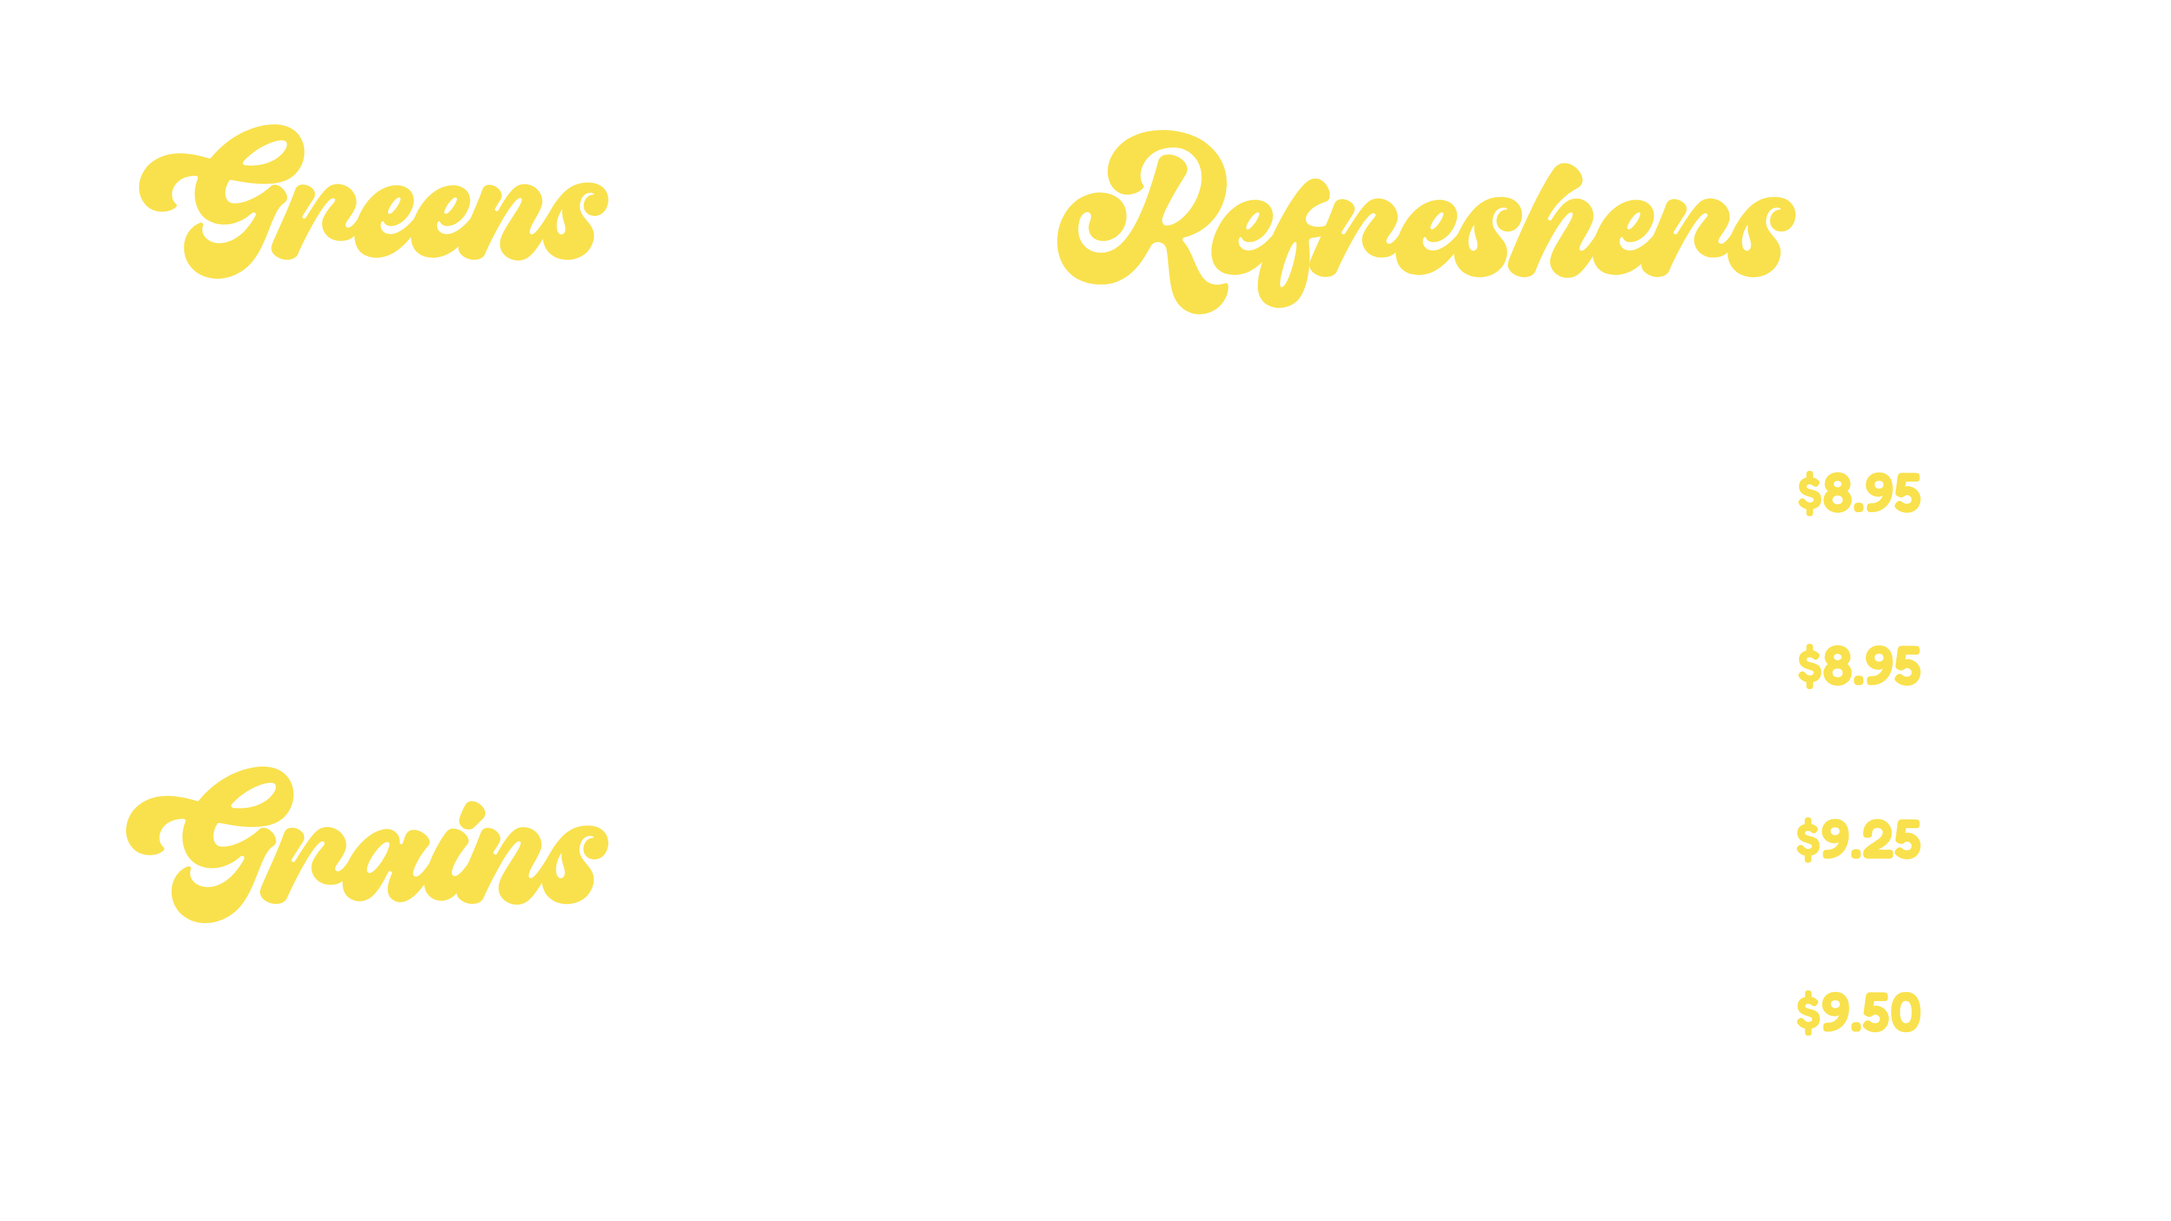
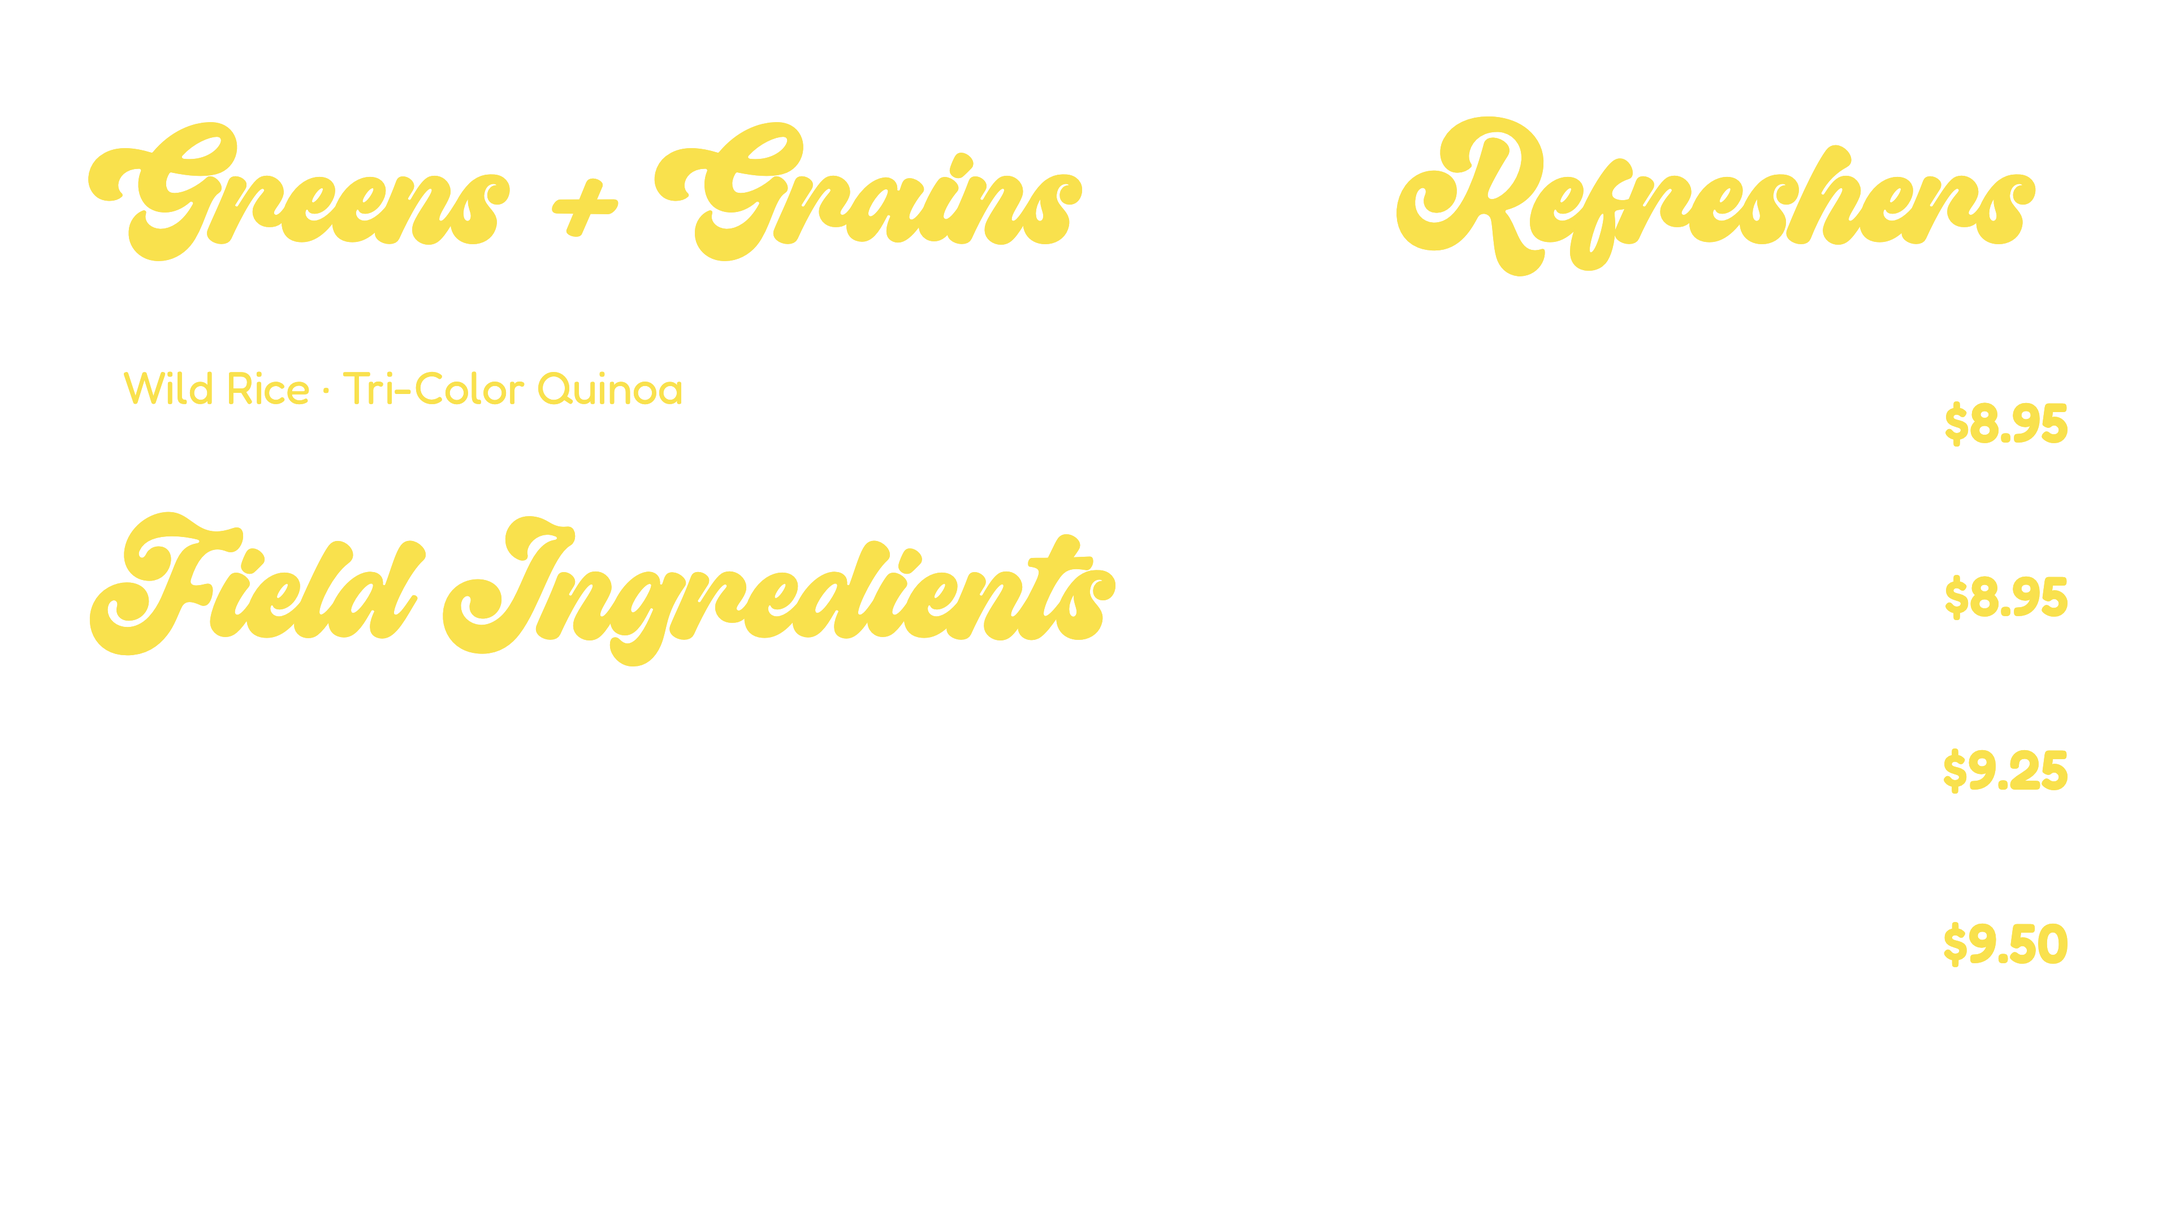
Grass D3 from Figma "Ingredients + Bevs" (120:60): Greens + Grains, Field Ingredients, Refreshers
New layout: Midstar titles, the greens and grains on two lines, a six-line Field Ingredients
list, a dashed divider, and the four refreshers at 90px. The Greens / Grains / Refreshers
vector titles are retired. Within 1 px of Figma at 4K (the divider's dashes keep the
exported line's rhythm). Canvas D3 updated; still and text layers re-rendered.

diff --git a/design/Grass-Board3.dc.html b/design/Grass-Board3.dc.html
@@ -2,7 +2,7 @@
 <html lang="en">
 <head>
 <meta charset="utf-8">
-<title>Option D Board 3: Greens, Grains + Refreshers</title>
+<title>Option D Board 3: Ingredients + Bevs</title>
 <script src="./support.js"></script>
 </head>
 <body>
@@ -17,12 +17,14 @@ body{margin:0;font-family:'Fredoka', sans-serif;background:#1d2716;color:#ffffff
 </style>
 </helmet>
 <div class="grass-bg" style="width: 3840px; height: 2160px; box-sizing: border-box; background-color: #1d2716; color: #ffffff; font-family: 'Fredoka', sans-serif; overflow: hidden; position: relative">
-<img src="/_blob/751d838a999f9ea7a5e48fad33dee1f2" alt="Greens" style="position: absolute; left: 246px; top: 220px; width: 830.253px; height: 273.316px; display: block">
-<div style="position: absolute; left: 326px; top: 527.5px; display: flex; flex-direction: column; gap: 30px; font-family: 'Heart of the Land', 'Fredoka', sans-serif; font-weight: 400; font-size: 100px; line-height: 121.8px; white-space: nowrap"><div>ROMAINE HEARTS</div><div>ARUGULA</div><div>KALE</div><div>SPINACH</div></div>
-<img src="/_blob/0302d84639b9b9fe61fc24b674f899a8" alt="Grains" style="position: absolute; left: 223px; top: 1356px; width: 853px; height: 276.765px; display: block">
-<div style="position: absolute; left: 326px; top: 1667.5px; display: flex; flex-direction: column; gap: 30px; font-family: 'Heart of the Land', 'Fredoka', sans-serif; font-weight: 400; font-size: 100px; line-height: 121.8px; white-space: nowrap"><div>WILD RICE</div><div>TRI-COLOR QUINOA</div></div>
-<img src="/_blob/0c0b5a5a79884f3c833bd897562665e9" alt="Refreshers" style="position: absolute; left: 1870px; top: 230px; width: 1306px; height: 326.165px; display: block">
-<div style="position: absolute; left: 1878px; top: 809px; width: 1521px; display: flex; flex-direction: column; gap: 96px"><div style="display: flex; flex-direction: column; gap: 24px"><div style="display: flex; align-items: center; justify-content: space-between; white-space: nowrap"><span style="font-family: 'Heart of the Land', 'Fredoka', sans-serif; font-weight: 400; font-size: 100px; line-height: 121.8px">Arnold Palmer</span><span style="font-size: 98px; font-weight: 600; line-height: 73.6px; color: #f9e14d">$8.95</span></div><p style="margin: 0; font-size: 62px; font-weight: 400; line-height: 64.4px">Sweet tea &amp; lemonade</p></div><div style="display: flex; flex-direction: column; gap: 24px"><div style="display: flex; align-items: center; justify-content: space-between; white-space: nowrap"><span style="font-family: 'Heart of the Land', 'Fredoka', sans-serif; font-weight: 400; font-size: 100px; line-height: 121.8px">Valencia</span><span style="font-size: 98px; font-weight: 600; line-height: 73.6px; color: #f9e14d">$8.95</span></div><p style="margin: 0; font-size: 62px; font-weight: 400; line-height: 64.4px">Fresh orange juice &amp; lemon</p></div><div style="display: flex; flex-direction: column; gap: 24px"><div style="display: flex; align-items: center; justify-content: space-between; white-space: nowrap"><span style="font-family: 'Heart of the Land', 'Fredoka', sans-serif; font-weight: 400; font-size: 100px; line-height: 121.8px">Flamingo</span><span style="font-size: 98px; font-weight: 600; line-height: 73.6px; color: #f9e14d">$9.25</span></div><p style="margin: 0; font-size: 62px; font-weight: 400; line-height: 64.4px">Tropical hibiscus &amp; lemonade</p></div><div style="display: flex; flex-direction: column; gap: 24px"><div style="display: flex; align-items: center; justify-content: space-between; white-space: nowrap"><span style="font-family: 'Heart of the Land', 'Fredoka', sans-serif; font-weight: 400; font-size: 100px; line-height: 121.8px">Bluebird</span><span style="font-size: 98px; font-weight: 600; line-height: 73.6px; color: #f9e14d">$9.50</span></div><p style="margin: 0; font-size: 62px; font-weight: 400; line-height: 64.4px">Refreshing blueberry lavender iced tea</p></div></div>
+<h2 style="position: absolute; left: 157px; top: 254.1px; margin: 0; font-family: 'Midstar', 'Fredoka', cursive; font-weight: 400; font-size: 253px; line-height: 121.8px; color: #f9e14d; white-space: nowrap">Greens + Grains</h2>
+<p style="position: absolute; left: 217px; top: 499px; margin: 0; font-size: 80px; font-weight: 400; line-height: 123.6px; color: #ffffff; white-space: nowrap">Romaine Hearts · Arugula · Kale · Baby Spinach</p>
+<p style="position: absolute; left: 217px; top: 623px; margin: 0; font-size: 80px; font-weight: 400; line-height: 123.6px; color: #f9e14d; white-space: nowrap">Wild Rice · Tri-Color Quinoa</p>
+<h2 style="position: absolute; left: 157px; top: 954.1px; margin: 0; font-family: 'Midstar', 'Fredoka', cursive; font-weight: 400; font-size: 253px; line-height: 121.8px; color: #f9e14d; white-space: nowrap">Field Ingredients</h2>
+<p style="position: absolute; left: 217px; top: 1235px; margin: 0; font-size: 80px; font-weight: 400; line-height: 123.6px; color: #ffffff; white-space: nowrap">Cucumber · Tri-Color Cherry Tomatoes · Carrot Ribbons<br>Red Onion · Black Beans · Char-Grilled Corn<br>Grilled Poblano · Roasted Chickpeas · Roasted Broccoli<br>Roasted Sweet Potato · Watermelon Radish · Edamame<br>Green Apple · Sliced Strawberries · Pico de Gallo<br>Cilantro · Chives</p>
+<h2 style="position: absolute; left: 2468px; top: 254.1px; margin: 0; font-family: 'Midstar', 'Fredoka', cursive; font-weight: 400; font-size: 253px; line-height: 121.8px; color: #f9e14d; white-space: nowrap">Refreshers</h2>
+<img src="/_blob/1fe0f9f8527c0305a1e2ffc981ed1a79" alt="" style="position: absolute; left: 1410px; top: 1099px; width: 1822px; height: 8px; display: block; transform: rotate(90deg)">
+<div style="position: absolute; left: 2528px; top: 686px; width: 1131px; display: flex; flex-direction: column; gap: 96px"><div style="display: flex; flex-direction: column; gap: 24px"><div style="display: flex; align-items: center; justify-content: space-between; height: 122px; white-space: nowrap"><span style="font-family: 'Heart of the Land', 'Fredoka', sans-serif; font-weight: 400; font-size: 90px; line-height: 121.8px">Arnold Palmer</span><span style="font-size: 98px; font-weight: 600; line-height: 73.6px; color: #f9e14d">$8.95</span></div><p style="margin: 0; height: 65px; font-size: 62px; font-weight: 400; line-height: 64.4px; white-space: nowrap">Sweet tea &amp; lemonade</p></div><div style="display: flex; flex-direction: column; gap: 24px"><div style="display: flex; align-items: center; justify-content: space-between; height: 122px; white-space: nowrap"><span style="font-family: 'Heart of the Land', 'Fredoka', sans-serif; font-weight: 400; font-size: 90px; line-height: 121.8px">Valencia</span><span style="font-size: 98px; font-weight: 600; line-height: 73.6px; color: #f9e14d">$8.95</span></div><p style="margin: 0; height: 65px; font-size: 62px; font-weight: 400; line-height: 64.4px; white-space: nowrap">Fresh orange juice &amp; lemon</p></div><div style="display: flex; flex-direction: column; gap: 24px"><div style="display: flex; align-items: center; justify-content: space-between; height: 122px; white-space: nowrap"><span style="font-family: 'Heart of the Land', 'Fredoka', sans-serif; font-weight: 400; font-size: 90px; line-height: 121.8px">Flamingo</span><span style="font-size: 98px; font-weight: 600; line-height: 73.6px; color: #f9e14d">$9.25</span></div><p style="margin: 0; height: 65px; font-size: 62px; font-weight: 400; line-height: 64.4px; white-space: nowrap">Tropical hibiscus &amp; lemonade</p></div><div style="display: flex; flex-direction: column; gap: 24px"><div style="display: flex; align-items: center; justify-content: space-between; height: 122px; white-space: nowrap"><span style="font-family: 'Heart of the Land', 'Fredoka', sans-serif; font-weight: 400; font-size: 90px; line-height: 121.8px">Bluebird</span><span style="font-size: 98px; font-weight: 600; line-height: 73.6px; color: #f9e14d">$9.50</span></div><p style="margin: 0; height: 129px; font-size: 62px; font-weight: 400; line-height: 64.4px; white-space: nowrap">Refreshing blueberry lavender<br>iced tea</p></div></div>
 </div>
 </x-dc>
 <script type="text/x-dc" data-dc-script data-props='{"$preview":{"width":3840,"height":2160}}'>

diff --git a/assets/boards/versions.js b/assets/boards/versions.js
@@ -16,10 +16,10 @@ window.BOARD_VERSIONS = {
   "forest/salads-screen.png": "aa6ef7180a",
   "forest/salads.mp4": "8639fc3c96",
   "forest/salads.png": "0ee02eaa35",
-  "grass/beverages-screen.png": "756ffe43b6",
-  "grass/beverages-text-screen.png": "4185a11789",
-  "grass/beverages-text.png": "e248d881cc",
-  "grass/beverages.png": "900a251140",
+  "grass/beverages-screen.png": "87a7fd25a2",
+  "grass/beverages-text-screen.png": "89307b71e9",
+  "grass/beverages-text.png": "3281c766d6",
+  "grass/beverages.png": "eacee7d93a",
   "grass/build-screen.png": "25219c4e95",
   "grass/build-text-screen.png": "4c9718e131",
   "grass/build-text.png": "73c7c81be2",

diff --git a/index.html b/index.html
@@ -11,7 +11,7 @@
 <body class="page-scene">
 <main id="scene" class="scene" aria-label="Menu boards in store"></main>
 <p class="rotate-hint">Turn your phone sideways for a closer look</p>
-<script src="assets/boards/versions.js?v=c4d92c44cd"></script>
+<script src="assets/boards/versions.js?v=178502b281"></script>
 <script src="js/config.js?v=d419142068"></script>
 <script src="js/common.js?v=19c2f4a3bf"></script>
 <script src="js/scene.js?v=85c7880aa2"></script>

diff --git a/gallery.html b/gallery.html
@@ -16,7 +16,7 @@
   <nav aria-label="Colorways and boards"><ol id="toc" class="toc"></ol></nav>
 </aside>
 <main id="doc" class="doc"></main>
-<script src="assets/boards/versions.js?v=c4d92c44cd"></script>
+<script src="assets/boards/versions.js?v=178502b281"></script>
 <script src="js/config.js?v=d419142068"></script>
 <script src="js/common.js?v=19c2f4a3bf"></script>
 <script src="js/gallery.js?v=1659b3a1e8"></script>

diff --git a/tools/build-grass-latest.py b/tools/build-grass-latest.py
@@ -1,7 +1,7 @@
 # Builds the Grass artboards (Grass-Board1/2/3.dc.html) from Figma's "LATEST BOARDS" page
 # (frames 79:1462 Signature "Fields Gathered", 119:8445 "Build Your Own - NEW" Field Trip,
-# 118:7207 Beverages "Greens / Grains / Refreshers"). Positions and sizes are Figma's.
-# Board 2's lettering and Board 3's titles are Figma's vector exports in design/assets/field-trip/.
+# 120:60 "Ingredients + Bevs"). Positions and sizes are Figma's.
+# Board 1's title, board 2's lettering and board 3's divider are Figma's vector exports in design/assets/field-trip/.
 #
 # Usage: python3 tools/build-grass-latest.py design            # the real boards (grass photos)
 #        python3 tools/build-grass-latest.py <dir> --flat      # Figma's flat Forest ground, for diffing
@@ -23,7 +23,7 @@ PHOTO = {'salads': '0695e19f2e566c2e77d4f26eb2678687', 'build': '2a611a6d12b65f1
 C = dict(name='Option D', bg=FOREST if FLAT else '#1d2716', ink=WHITE, acc=SUN, pill=SUN, pillink=FOREST,
          logo=None, **({} if FLAT else {'photo': PHOTO}))
 SVG = {  # canvas blob ids; design/manifest.json maps them to design/assets/field-trip/<name>.svg
-    'fields-gathered': 'd4c09801249a440e80340860ae861576', 'path83': 'e8e5569f9b638941f0e20ddb220637fa', 'step1': '043eb4097ea4fbbed468e78b36cc57d0',
+    'fields-gathered': 'd4c09801249a440e80340860ae861576', 'divider': '1fe0f9f8527c0305a1e2ffc981ed1a79', 'path83': 'e8e5569f9b638941f0e20ddb220637fa', 'step1': '043eb4097ea4fbbed468e78b36cc57d0',
     'step2': 'b92ff74f402cb85a646d44c6ceefe775', 'step3': '1930219e5e916519dba999c597027e06',
     'step4': '82acaa3b98e91ade47c420b69f10c778', 'pick-your-field-2': '8647c1e19b696e6485f31781ef9752ea',
     'start-with-2': '440895a9671bd08cc77240a45189ed86', 'harvest-six-2': '4202076a8f8917de7b9c51e698782702',
@@ -31,8 +31,8 @@ SVG = {  # canvas blob ids; design/manifest.json maps them to design/assets/fiel
     'upgrade-your-trip-2': 'c55a452476105e9acc95b6d2ea1df7c2', 'final-approach-2': '521ab94e2c2d4a0a48c52a74091ab5db',
     'choose-dressing-2': '8c9433b7a78cc3434d82dbc50fcebfa9', 'ticket-2': '1f3e71b203b69e21c8ed1af643aa3a62',
     'field-2': '52d4baa60b25ff2a85f0cfdd9cfb8b64', 'trip': '088367d6b171719a7f6558c6dfe4cb27',
-    'price-2': '0c1cbce504853417f3c1de6f7a1607c9', 'greens': '751d838a999f9ea7a5e48fad33dee1f2',
-    'grains': '0302d84639b9b9fe61fc24b674f899a8', 'refreshers': '0c0b5a5a79884f3c833bd897562665e9',
+    'price-2': '0c1cbce504853417f3c1de6f7a1607c9',
+   
 }
 W, H = 3840, 2160
 
@@ -101,28 +101,35 @@ def build():
         b += svg(key, x, y, w, h, alt=alt)
     return b
 
-# ------------------------------------------------------------------ Board 3: Greens, Grains, Refreshers
+# ------------------------------------------------------------------ Board 3: Ingredients + Bevs
 def beverages():
-    def names(x, y, items):
-        return (f'<div style="position: absolute; left: {x}px; top: {y}px; display: flex; flex-direction: column; gap: 30px; '
-                f'{HOTL}; font-size: 100px; line-height: 121.8px; white-space: nowrap">'
-                + ''.join(f'<div>{t}</div>' for t in items) + '</div>\n')
+    title = lambda x, cy, t: (f'<h2 style="position: absolute; left: {x}px; top: {cy - 60.9:g}px; margin: 0; {MID}; font-size: 253px; '
+                              f'line-height: 121.8px; color: {SUN}; white-space: nowrap">{t}</h2>\n')
+    lines = lambda y, rows, color=WHITE: (f'<p style="position: absolute; left: 217px; top: {y}px; margin: 0; font-size: 80px; font-weight: 400; '
+                                          f'line-height: 123.6px; color: {color}; white-space: nowrap">' + '<br>'.join(rows) + '</p>\n')
+    # Rows and descriptions take Figma's whole-pixel heights (122, 65, 129), so the list doesn't drift.
     def drink(name, price, desc):
         return (f'<div style="display: flex; flex-direction: column; gap: 24px">'
-                f'<div style="display: flex; align-items: center; justify-content: space-between; white-space: nowrap">'
-                f'<span style="{HOTL}; font-size: 100px; line-height: 121.8px">{name}</span>'
+                f'<div style="display: flex; align-items: center; justify-content: space-between; height: 122px; white-space: nowrap">'
+                f'<span style="{HOTL}; font-size: 90px; line-height: 121.8px">{name}</span>'
                 f'<span style="font-size: 98px; font-weight: 600; line-height: 73.6px; color: {SUN}">{price}</span></div>'
-                f'<p style="margin: 0; font-size: 62px; font-weight: 400; line-height: 64.4px">{desc}</p></div>')
-    b = svg('greens', 246, 220, 830.253, 273.316, alt='Greens')
-    b += names(326, 527.5, ['ROMAINE HEARTS', 'ARUGULA', 'KALE', 'SPINACH'])
-    b += svg('grains', 223, 1356, 853, 276.765, alt='Grains')
-    b += names(326, 1667.5, ['WILD RICE', 'TRI-COLOR QUINOA'])
-    b += svg('refreshers', 1870, 230, 1306, 326.165, alt='Refreshers')
-    b += '<div style="position: absolute; left: 1878px; top: 809px; width: 1521px; display: flex; flex-direction: column; gap: 96px">'
-    b += drink('Arnold Palmer', '$8.95', 'Sweet tea &amp; lemonade')
-    b += drink('Valencia', '$8.95', 'Fresh orange juice &amp; lemon')
-    b += drink('Flamingo', '$9.25', 'Tropical hibiscus &amp; lemonade')
-    b += drink('Bluebird', '$9.50', 'Refreshing blueberry lavender iced tea')
+                f'<p style="margin: 0; height: {65 if len(desc) == 1 else 129}px; font-size: 62px; font-weight: 400; line-height: 64.4px; white-space: nowrap">'
+                + '<br>'.join(desc) + '</p></div>')
+    b = title(157, 315, 'Greens + Grains')
+    b += lines(499, ['Romaine Hearts · Arugula · Kale · Baby Spinach'])
+    b += lines(623, ['Wild Rice · Tri-Color Quinoa'], SUN)
+    b += title(157, 1015, 'Field Ingredients')
+    b += lines(1235, ['Cucumber · Tri-Color Cherry Tomatoes · Carrot Ribbons', 'Red Onion · Black Beans · Char-Grilled Corn',
+                      'Grilled Poblano · Roasted Chickpeas · Roasted Broccoli', 'Roasted Sweet Potato · Watermelon Radish · Edamame',
+                      'Green Apple · Sliced Strawberries · Pico de Gallo', 'Cilantro · Chives'])
+    b += title(2468, 315, 'Refreshers')
+    # The dashed divider: a 1822 x 8 line turned upright, centred on x = 2321 from y = 196 to 2010.
+    b += svg('divider', 2321 - 911, 196 + 1814 / 2 - 4, 1822, 8, transform='rotate(90deg)')
+    b += '<div style="position: absolute; left: 2528px; top: 686px; width: 1131px; display: flex; flex-direction: column; gap: 96px">'
+    b += drink('Arnold Palmer', '$8.95', ['Sweet tea &amp; lemonade'])
+    b += drink('Valencia', '$8.95', ['Fresh orange juice &amp; lemon'])
+    b += drink('Flamingo', '$9.25', ['Tropical hibiscus &amp; lemonade'])
+    b += drink('Bluebird', '$9.50', ['Refreshing blueberry lavender', 'iced tea'])
     return b + '</div>\n'
 
 def clean(html):  # the shell adds a logo when there is one; these boards have none
@@ -130,7 +137,7 @@ def clean(html):  # the shell adds a logo when there is one; these boards have n
 
 for name, board, title, fn in [('Grass-Board1.dc.html', 'salads', 'Board 1: Fields Gathered', signature),
                                ('Grass-Board2.dc.html', 'build', 'Board 2: Build your Field Trip', build),
-                               ('Grass-Board3.dc.html', 'beverages', 'Board 3: Greens, Grains + Refreshers', beverages)]:
+                               ('Grass-Board3.dc.html', 'beverages', 'Board 3: Ingredients + Bevs', beverages)]:
     html = clean(page(C, board, f'Option D {title}', fn()))
     open(os.path.join(out, name), 'w').write(html)
 print('wrote 3 Grass artboards to', out, '(flat Forest ground)' if FLAT else '')
